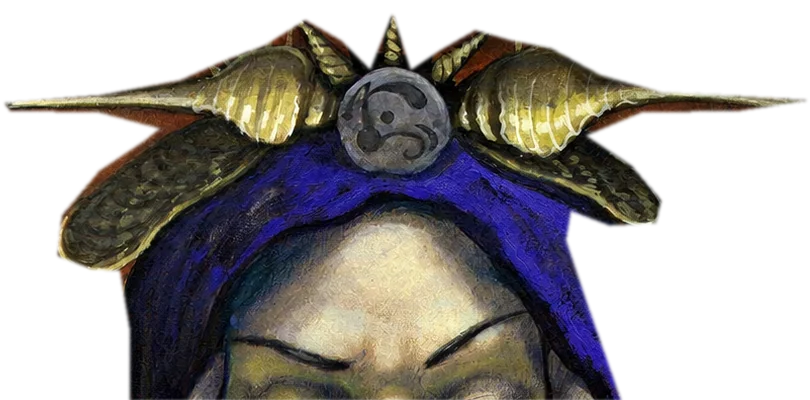
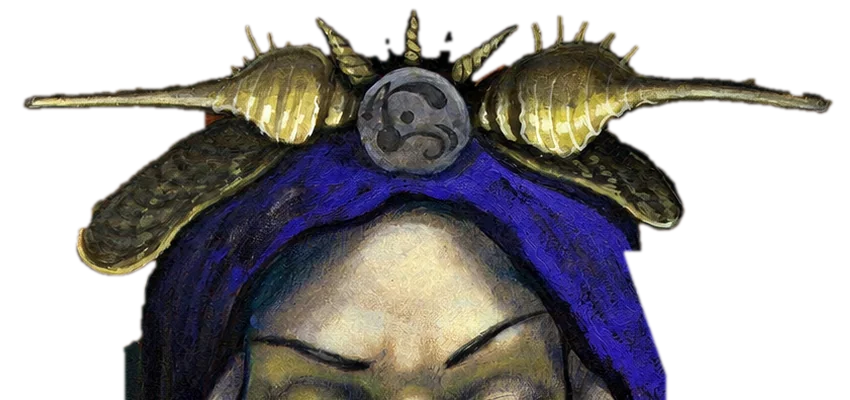
Cut Brainstorm's headdress along the painted edges
The mask now comes from the paint colours inside a rough outline, so no
background shows between the hat and the glyphs and the glyphs no longer
overlap the shells and leaves.

Changed region(s): [[0.0, 0.03, 1.0, 1.0], [0.5247, 0.54, 0.5556, 0.57], [0.4321, 0.75, 0.463, 0.78]]

diff --git a/src/pages/Home.jsx b/src/pages/Home.jsx
@@ -179,7 +179,7 @@ const RING = { cx: 0.505, cy: 0.493, rx: 0.45, ry: 0.383 }
 const SPRITE = 200 / 1407
 // Her headdress, cut out of the painting and drawn over the back of the ring
 // so glyphs passing behind her head are hidden by it
-const HEADDRESS = { left: 320 / 1407, width: 810 / 1407 }
+const HEADDRESS = { left: 300 / 1407, width: 850 / 1407 }
 const HEADDRESS_Z = 30
 
 const wrap = (i) => ((i % GLYPHS) + GLYPHS) % GLYPHS
